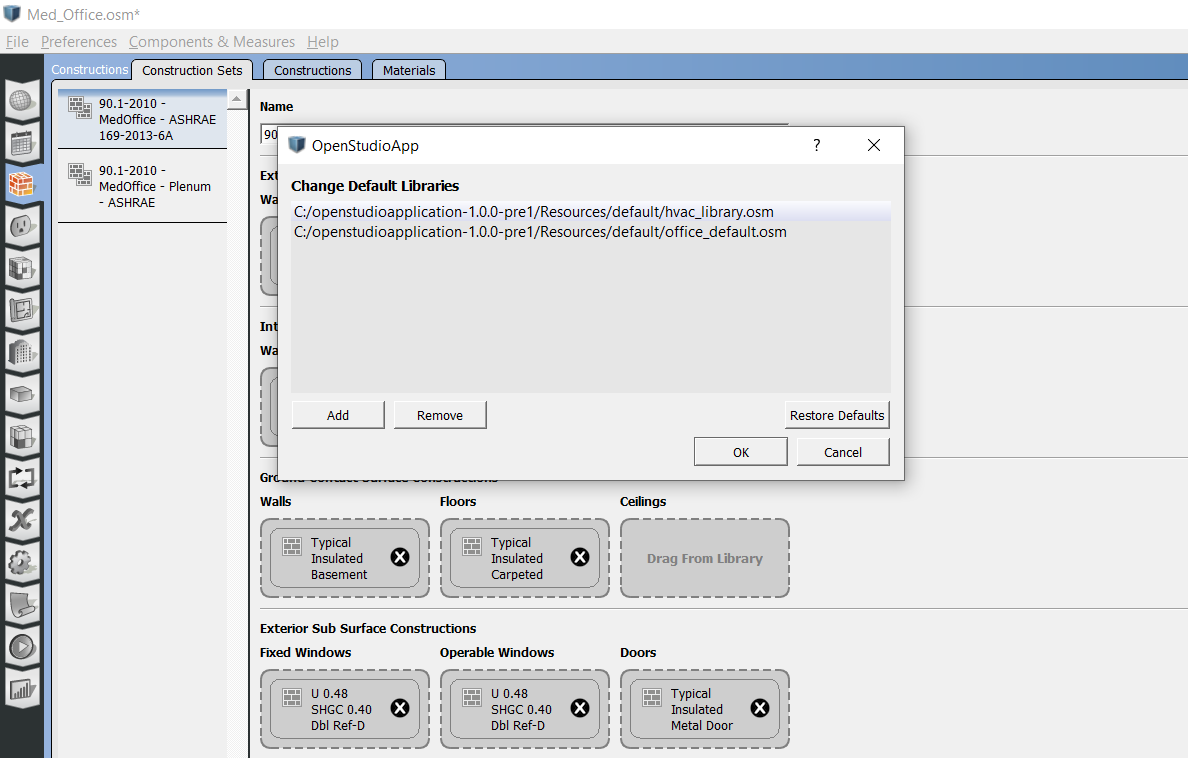
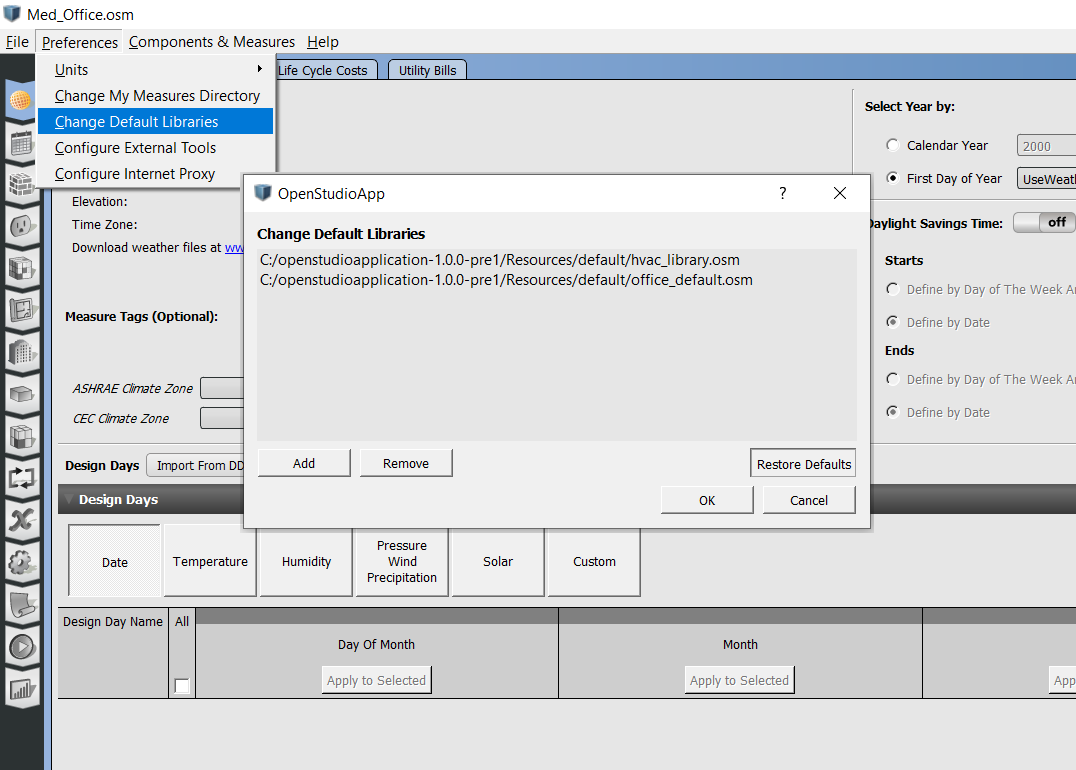
part-way through updates for creating_your_model.md putting up in case PSD has a chance to merge

diff --git a/docs/tutorials/creating_your_model.md b/docs/tutorials/creating_your_model.md
@@ -6,24 +6,23 @@ The building envelope is created using the SketchUp OpenStudio Plug-in. Refer to
 
 ------
 
-### Choosing a template
-Templates contain data for constructions, loads, and schedules for 6 vintages across all U.S. climate zones. Templates do not contain any geometry. Load templates by using the menu under __Extentions/OpenStudio User Scripts/On-Demand Template Generators/Space Type and Construction Set Wizard__. Then select your type of building, vintage, and climate zone from the dialog. You can also get standard space types for that template by choosing "true" on the dialog. Space types can define internal loads, schedule sets, and construction sets.
+### Choosing a Library
 
+Libraries that are included with the OpenStudio Application contain data for constructions, loads, and schedules for 6 vintages across all U.S. climate zones. They also contain data for 9 vintages specific to DEER. The Libraries do not contain any geometry. Load libraries by using the menu under __File/Load Library__. Then select your vintage from the default file set. The Library data is organized such that you can access specific Constructions and Loads or you can apply Construction Sets and Space Types that contain whole packages of subsequent dependent characteristics. For example a Library Space Type contains several specific Loads and associated Schedules for that space type, all of whhich become part of your model if you add the Space Type to your model. You can also load previously generated models as Libraries through the __File/Load Library__ menu by navigating to any OSM file from the browser window that pops up. It can take a few minutes to load. 
 
-![New OpenStudio Model From Template Dialog](img/menu_template.png)
+![New OpenStudio Model From Template Dialog](img/menu_libraries.png)
 
-*Above: Load a new template using the menu.*
+*Above: Load a new Library using the menu.*
 
-![New OpenStudio Model From Template Dialog](img/from_template.png)
+It is a good practice to regularly clear the Libraries that load when the OpenStudio Application opens by using the menu under __Preferences/Change Default Libraries__ and selecting __Restore Defaults__. If the OpenStudio Application is loading several Libraries it will slow down significantly.
+
+![New OpenStudio Model From Template Dialog](img/default_libraries.png)
 
 Vintages:
 
-- DOE Ref Pre-1980
-- DOE Ref 1980-2004
-- DOE Ref 2004
-- 90.1-2010
-- 189.1-2009
-- 90.1-2007
+- DOE reference (Pre-1980, 1980-2004)
+- ASHRAE standard (189.1-2009, 90.1-2004, 90.1-2007, 90.1-2010, 90.1-2013)
+- DEER (pre-1975, 1985, 1996, 2003, 2007, 2011, 2014, 2015, 2017)
 
 Climate Zones: 1 - 8
 

diff --git a/docs/getting_started/getting_started.md b/docs/getting_started/getting_started.md
@@ -56,6 +56,7 @@ The [Parametric Analysis Tool Interface Guide](../reference/parametric_analysis_
 The tutorial below was created before the grid view was added to the Space Types and Thermal Zones tabs. Grid view allows you to view and edit more than one space type or thermal zone at a time. Go to the [OpenStudio Application Interface Guide](../reference/openstudio_application_interface.md) to learn more about grid view.
 
 ### Selecting a Library for Constructions, Loads, and Schedules
+
 Libraries that are included with the OpenStudio Application contain data for constructions, loads, and schedules for 6 vintages across all U.S. climate zones. They also contain data for 9 vintages specific to DEER. The Libraries do not contain any geometry. Load libraries by using the menu under __File/Load Library__. Then select your vintage from the default file set. The Library data is organized such that you can access specific Constructions and Loads or you can apply Construction Sets and Space Types that contain whole packages of subsequent dependent characteristics. For example a Library Space Type contains several specific Loads and associated Schedules for that space type, all of whhich become part of your model if you add the Space Type to your model. You can also load previously generated models as Libraries through the __File/Load Library__ menu by navigating to any OSM file from the browser window that pops up. It can take a few minutes to load. 
 
 ![New OpenStudio Model From Template Dialog](img/menu_libraries.png)
@@ -75,7 +76,6 @@ Vintages:
 Climate Zones: 1 - 8
 
 ![Climate Zone Map](img/create_model/climate_zones.png)
-
 
 ### SketchUp Plugin - Building Envelope
 For additional information on the SketchUp Plugin interface, go to the [OpenStudio SketchUp Plugin Interface Guide](../reference/sketchup_plugin_interface.md) section.
